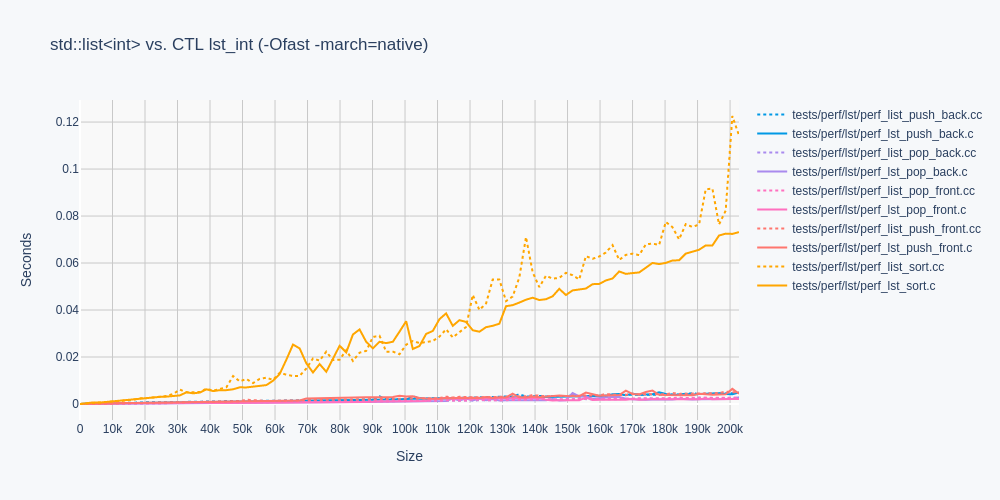
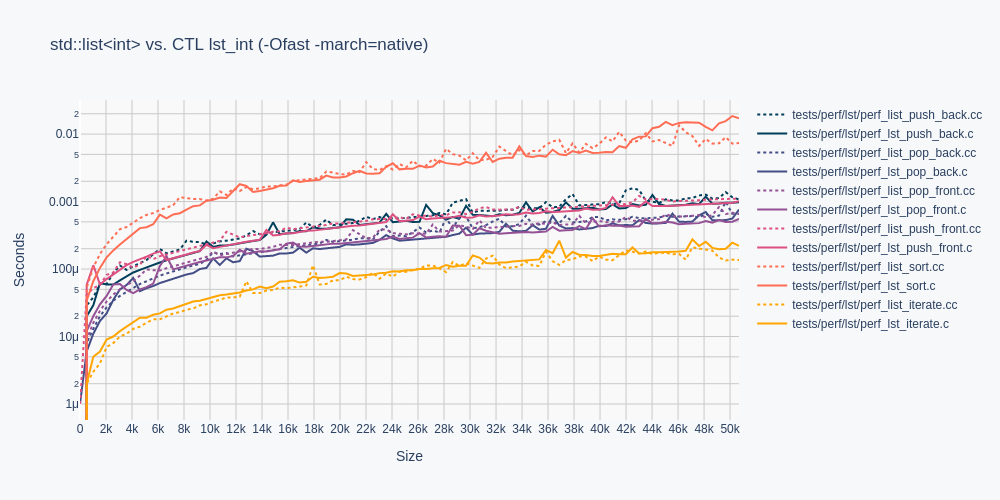
log graphs, iteration metric

diff --git a/tests/perf/perf_plot.py b/tests/perf/perf_plot.py
@@ -34,21 +34,17 @@ def plot_from_data(name_plot_hash, title):
    plot_bgcolor = "#F9F9F9"
    paper_bgcolor = "#F6F8FA"
    color_list = [
-       "#0099E5",
-       "#0099E5",
-       "#A98AEE",
-       "#A98AEE",
-       "#FF70BF",
-       "#FF70BF",
-       "#FF766E",
-       "#FF766E",
-       "#FFA600",
-       "#FFA600",
+       "#003f5c",
+       "#444e86",
+       "#955196",
+       "#dd5182",
+       "#ff6e54",
+       "#ffa600",
    ]
    used_basenames = []
    trace_list = []
    for idx, name in enumerate(name_plot_hash.keys()):
-       trace_color = color_list[idx]
+       trace_color = color_list[int(idx / 2)]
        trace = go.Scatter(
            x=name_plot_hash[name]["num_of_ints"],
            y=name_plot_hash[name]["time"],
@@ -63,7 +59,7 @@ def plot_from_data(name_plot_hash, title):
        plot_bgcolor=plot_bgcolor,
        paper_bgcolor=paper_bgcolor,
        xaxis=dict(title="Size", nticks=40, showgrid=True, gridcolor=grid_color),
-       yaxis=dict(title="Seconds", showgrid=True, gridcolor=grid_color),
+       yaxis=dict(title="Seconds", showgrid=True, gridcolor=grid_color, type="log"),
        title=title
    )
    return fig

diff --git a/tests/perf/map/perf_map_iterate.c b/tests/perf/map/perf_map_iterate.c
@@ -1,0 +1,29 @@
+#include "../../test.h"
+
+#define P
+#define T int
+#define U int
+#include <map.h>
+
+#include <time.h>
+
+static int compare(int* a, int* b) { return *a == *b ? 0 : *a < *b ? -1 : 1; }
+
+int main(void)
+{
+    puts(__FILE__);
+    srand(time(NULL));
+    for(int run = 0; run < TEST_PERF_RUNS; run++)
+    {
+        map_int_int c = map_int_int_create(compare);
+        int elems = TEST_PERF_CHUNKS * run;
+        for(int elem = 0; elem < elems; elem++)
+            map_int_int_insert(&c, rand() % elems, rand() % elems);
+        volatile int sum = 0;
+        int t0 = TEST_TIME();
+        foreach(map_int_int, &c, it, sum += it.node->second;);
+        int t1 = TEST_TIME();
+        printf("%10d %10d\n", elems, t1 - t0);
+        map_int_int_free(&c);
+    }
+}

diff --git a/tests/perf/deq/perf_deq_iterate.c b/tests/perf/deq/perf_deq_iterate.c
@@ -1,0 +1,26 @@
+#include "../../test.h"
+
+#define P
+#define T int
+#include <deq.h>
+
+#include <time.h>
+
+int main(void)
+{
+    puts(__FILE__);
+    srand(time(NULL));
+    for(int run = 0; run < TEST_PERF_RUNS; run++)
+    {
+        deq_int c = deq_int_init();
+        int elems = TEST_PERF_CHUNKS * run;
+        for(int elem = 0; elem < elems; elem++)
+            deq_int_push_back(&c, rand());
+        int t0 = TEST_TIME();
+        volatile int sum = 0;
+        foreach(deq_int, &c, it, sum += *it.ref;);
+        int t1 = TEST_TIME();
+        printf("%10d %10d\n", elems, t1 - t0);
+        deq_int_free(&c);
+    }
+}

diff --git a/tests/perf/lst/perf_lst_iterate.c b/tests/perf/lst/perf_lst_iterate.c
@@ -1,0 +1,26 @@
+#include "../../test.h"
+
+#define P
+#define T int
+#include <lst.h>
+
+#include <time.h>
+
+int main(void)
+{
+    puts(__FILE__);
+    srand(time(NULL));
+    for(int run = 0; run < TEST_PERF_RUNS; run++)
+    {
+        lst_int c = lst_int_init();
+        int elems = TEST_PERF_CHUNKS * run;
+        for(int elem = 0; elem < elems; elem++)
+            lst_int_push_back(&c, rand());
+        int t0 = TEST_TIME();
+        volatile int sum = 0;
+        foreach(lst_int, &c, it, sum += *it.ref;);
+        int t1 = TEST_TIME();
+        printf("%10d %10d\n", elems, t1 - t0);
+        lst_int_free(&c);
+    }
+}

diff --git a/tests/perf/vec/perf_vec_iterate.c b/tests/perf/vec/perf_vec_iterate.c
@@ -1,0 +1,26 @@
+#include "../../test.h"
+
+#define P
+#define T int
+#include <vec.h>
+
+#include <time.h>
+
+int main(void)
+{
+    puts(__FILE__);
+    srand(time(NULL));
+    for(int run = 0; run < TEST_PERF_RUNS; run++)
+    {
+        vec_int c = vec_int_init();
+        int elems = TEST_PERF_CHUNKS * run;
+        for(int elem = 0; elem < elems; elem++)
+            vec_int_push_back(&c, rand());
+        int t0 = TEST_TIME();
+        volatile int sum = 0;
+        foreach(vec_int, &c, it, sum += *it.ref;);
+        int t1 = TEST_TIME();
+        printf("%10d %10d\n", elems, t1 - t0);
+        vec_int_free(&c);
+    }
+}

diff --git a/tests/perf/map/perf_map_iterate.cc b/tests/perf/map/perf_map_iterate.cc
@@ -1,0 +1,23 @@
+#include "../../test.h"
+
+#include <map>
+#include <time.h>
+
+int main()
+{
+    puts(__FILE__);
+    srand(time(NULL));
+    for(int run = 0; run < TEST_PERF_RUNS; run++)
+    {
+        std::map<int, int> c;
+        int elems = TEST_PERF_CHUNKS * run;
+        for(int elem = 0; elem < elems; elem++)
+            c.insert(std::pair<int, int>(rand() % elems, rand() % elems));
+        int t0 = TEST_TIME();
+        volatile int sum = 0;
+        for(auto& x : c)
+            sum += x.second;
+        int t1 = TEST_TIME();
+        printf("%10d %10d\n", elems, t1 - t0);
+    }
+}

diff --git a/tests/perf/vec/perf_vector_iterate.cc b/tests/perf/vec/perf_vector_iterate.cc
@@ -1,0 +1,24 @@
+#include "../../test.h"
+
+#include <vector>
+
+#include <time.h>
+
+int main()
+{
+    puts(__FILE__);
+    srand(time(NULL));
+    for(int run = 0; run < TEST_PERF_RUNS; run++)
+    {
+        std::vector<int> c;
+        int elems = TEST_PERF_CHUNKS * run;
+        for(int elem = 0; elem < elems; elem++)
+            c.push_back(rand());
+        int t0 = TEST_TIME();
+        volatile int sum = 0;
+        for(auto& x : c)
+            sum += x;
+        int t1 = TEST_TIME();
+        printf("%10d %10d\n", elems, t1 - t0);
+    }
+}

diff --git a/tests/perf/deq/perf_deque_iterate.cc b/tests/perf/deq/perf_deque_iterate.cc
@@ -1,0 +1,24 @@
+#include "../../test.h"
+
+#include <deque>
+
+#include <time.h>
+
+int main()
+{
+    puts(__FILE__);
+    srand(time(NULL));
+    for(int run = 0; run < TEST_PERF_RUNS; run++)
+    {
+        std::deque<int> c;
+        int elems = TEST_PERF_CHUNKS * run;
+        for(int elem = 0; elem < elems; elem++)
+            c.push_back(rand());
+        int t0 = TEST_TIME();
+        volatile int sum = 0;
+        for(auto& x : c)
+            sum += x;
+        int t1 = TEST_TIME();
+        printf("%10d %10d\n", elems, t1 - t0);
+    }
+}

diff --git a/tests/perf/lst/perf_list_iterate.cc b/tests/perf/lst/perf_list_iterate.cc
@@ -1,0 +1,24 @@
+#include "../../test.h"
+
+#include <list>
+
+#include <time.h>
+
+int main()
+{
+    puts(__FILE__);
+    srand(time(NULL));
+    for(int run = 0; run < TEST_PERF_RUNS; run++)
+    {
+        std::list<int> c;
+        int elems = TEST_PERF_CHUNKS * run;
+        for(int elem = 0; elem < elems; elem++)
+            c.push_back(rand());
+        int t0 = TEST_TIME();
+        volatile int sum = 0;
+        for(auto& x : c)
+            sum += x;
+        int t1 = TEST_TIME();
+        printf("%10d %10d\n", elems, t1 - t0);
+    }
+}

diff --git a/tests/test.h b/tests/test.h
@@ -26,7 +26,7 @@
 
 #define TEST_PERF_RUNS (100)
 
-#define TEST_PERF_CHUNKS (2048)
+#define TEST_PERF_CHUNKS (512)
 
 static inline int
 TEST_TIME(void)
